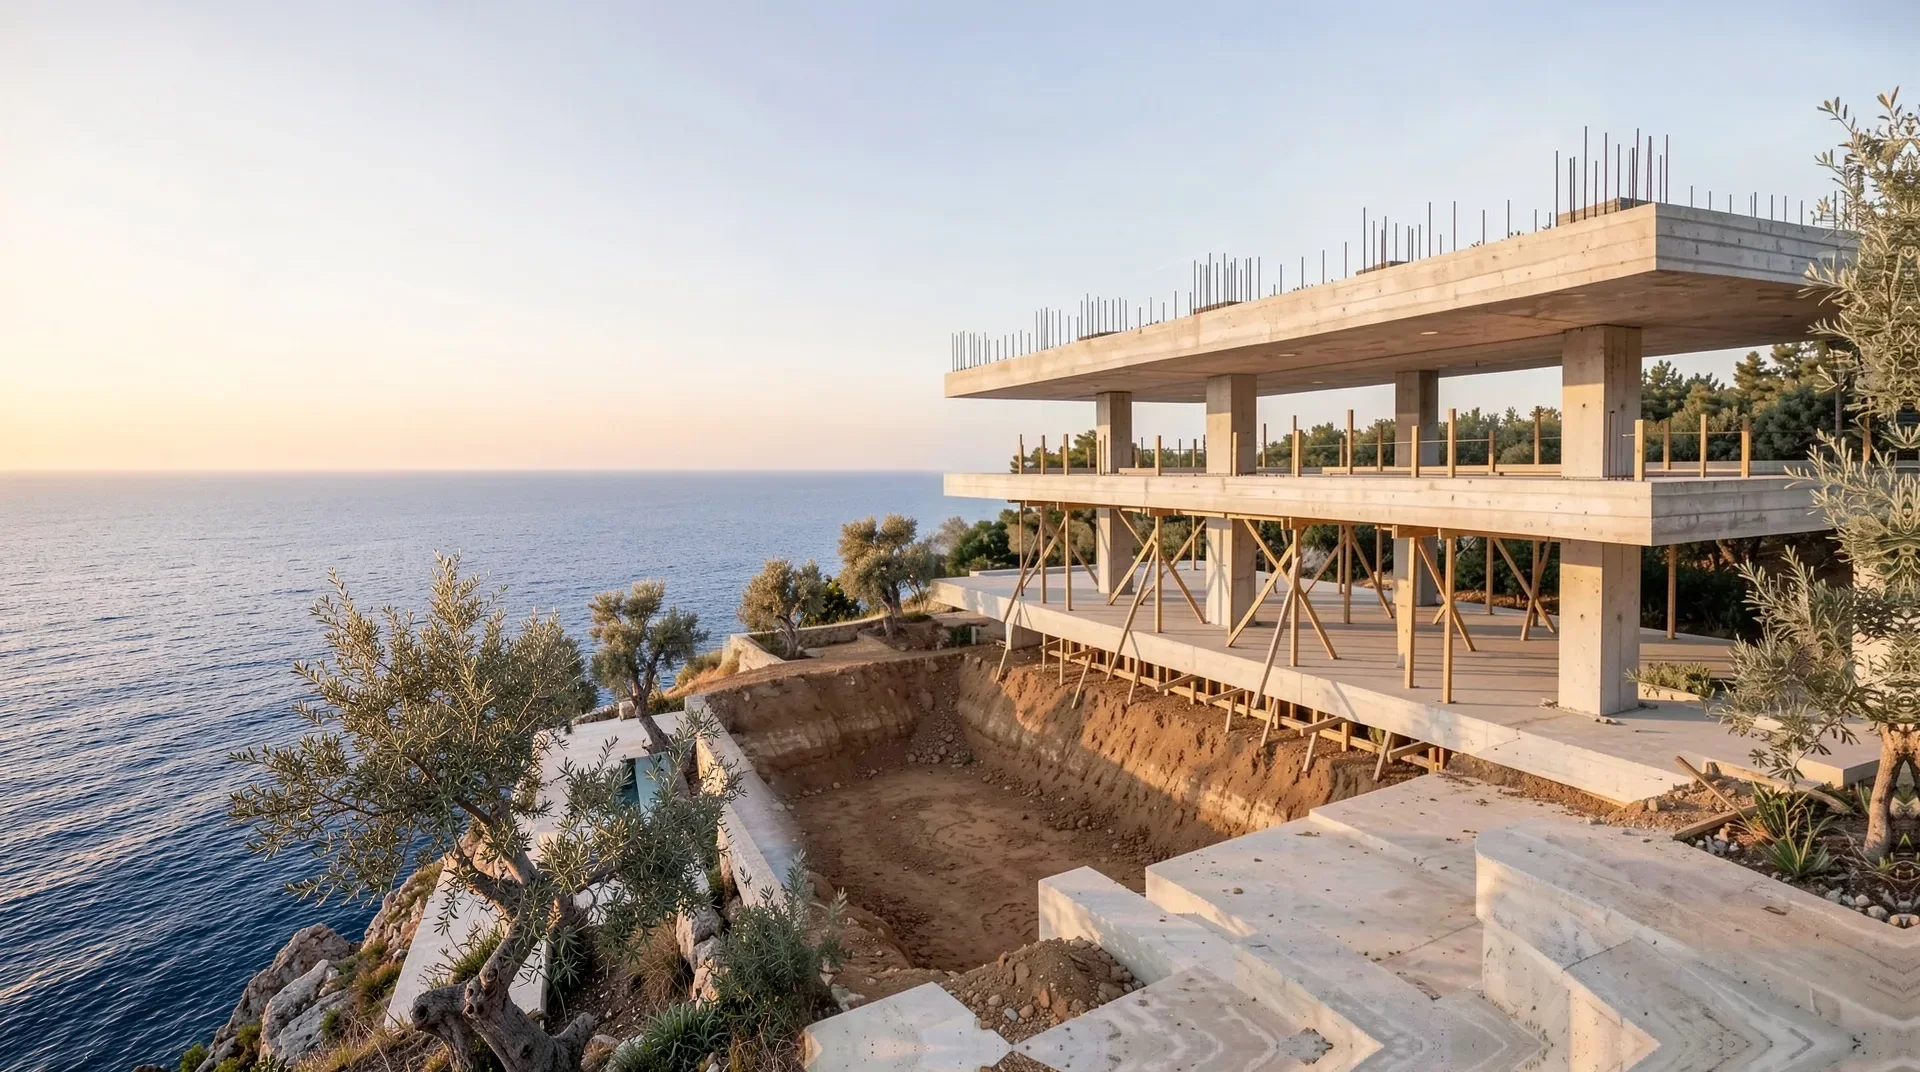
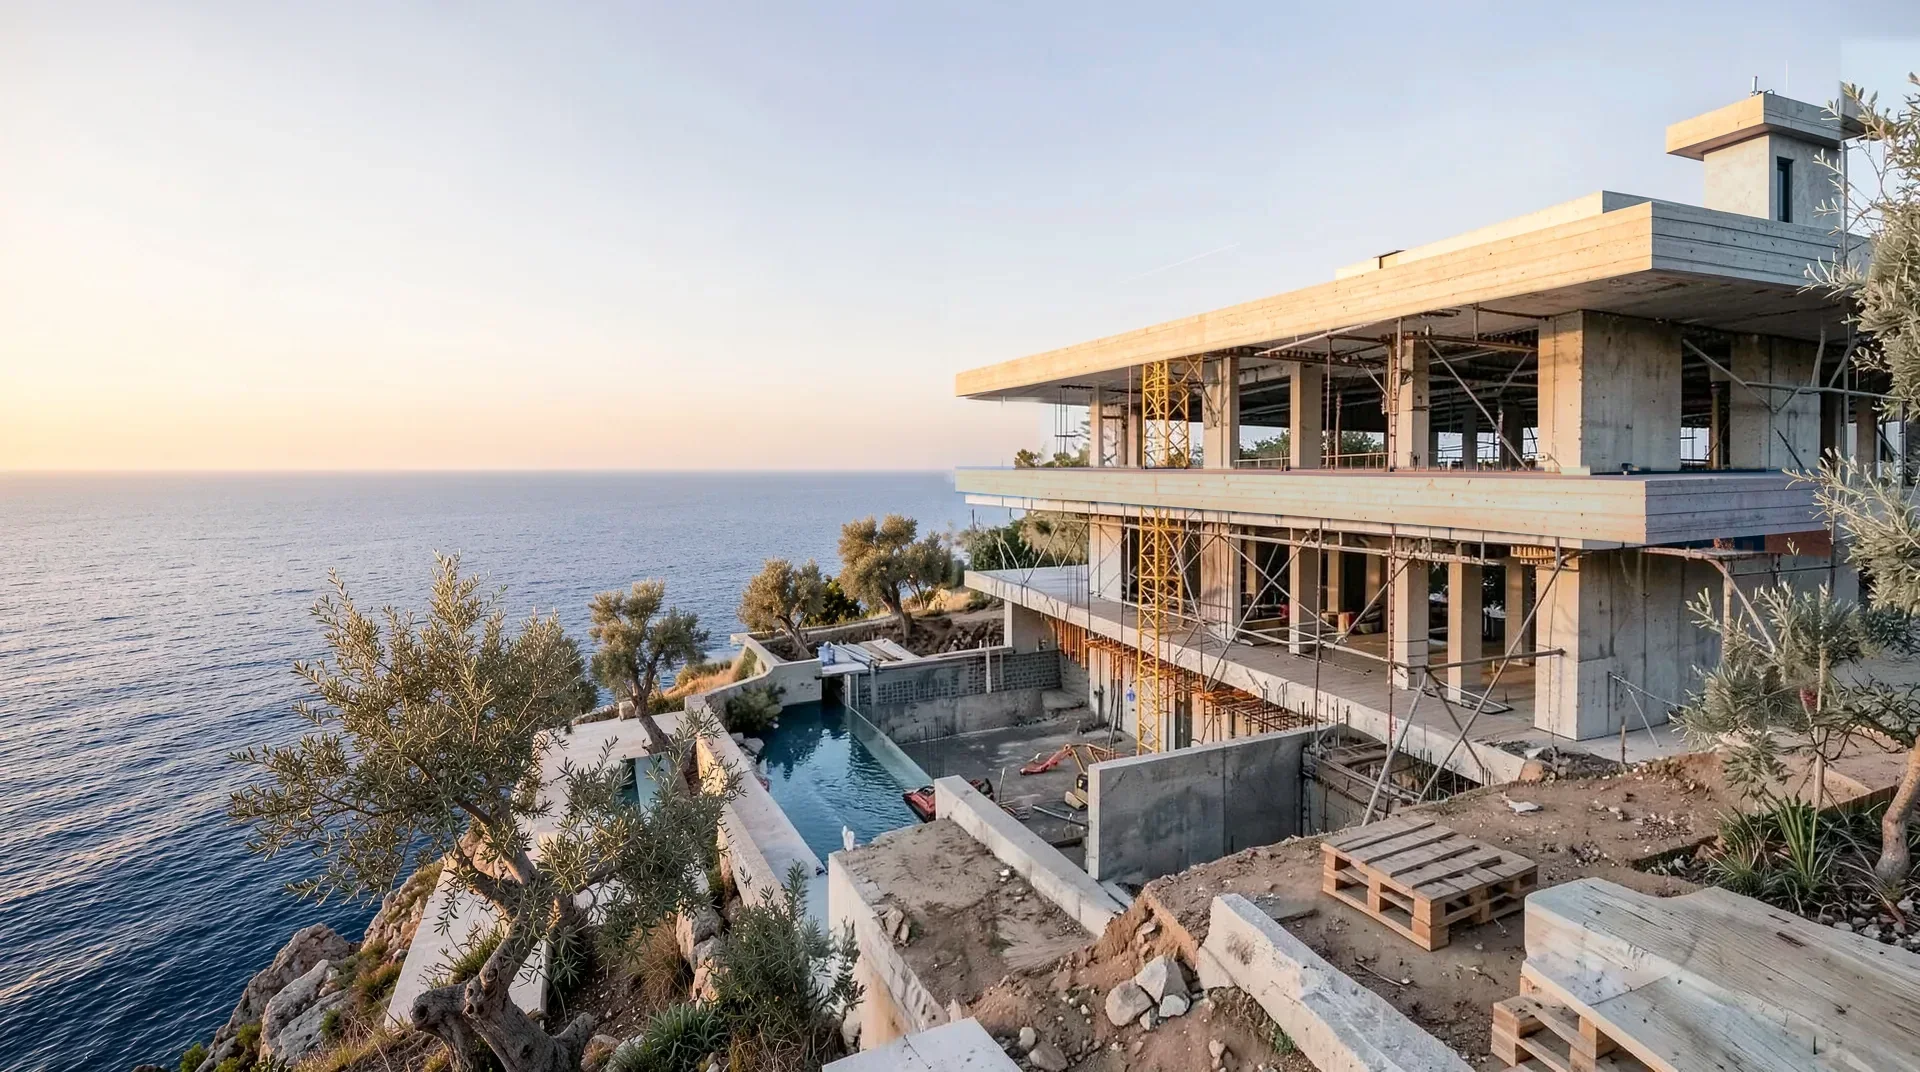
Images: build and frame stages now FLUX.2 [klein] 4B (Apache 2.0); drop the licence caveat

diff --git a/README.md b/README.md
@@ -2,8 +2,6 @@
 
 **Live demo:** https://estate.formgong.com · Download: the [latest release](https://github.com/formgong/lattice-estate-template/releases/latest) zip.
 
-> **License:** code under MIT. `img/shell.webp` and `img/frame.webp` were generated with FLUX.2 [klein] 9B, whose weights are under the FLUX Non-Commercial License; check the FLUX terms (https://bfl.ai/legal/terms-of-service) before commercial use, or replace them. The other three images (FLUX.2 [klein] 4B, Apache 2.0, and a drawing traced from one of them) carry no such restriction.
-
 Шаблон сайту будівельника люкс-будинків з формою Formgong
 
 A variation of [Lattice](https://github.com/formgong/lattice-template). It keeps the core: every border sits on a grid line, the frames draw from a corner, and the boxes slide in. On top of that, the page tells one build backwards. Scrolling rewinds a finished cliffside villa to the shell under construction, then to the bare concrete frame, then to the first drawing. The page ends on the team around a table with a consultation form.
@@ -25,7 +23,11 @@ The form sends `name`, `email`, `phone` (optional), `budget` and `message`. It s
 - Captions and timeline labels are in the `STAGES` array in the script.
 - With `prefers-reduced-motion: reduce`, the stages switch without wipes.
 
-**Images.** All five were made for this template on Cloudflare Workers AI, within the free daily allowance. The finished villa and the team are text-to-image with FLUX.2 [klein] 4B. The build and frame stages are FLUX.2 [klein] 9B edits of the villa. Each one was aligned with a straight-line-safe perspective warp and then locked to the villa photo: outside the house the stages are the photo pixel for pixel, so sky, sea and cliff never move, and the roof and slabs land within 1.5 px. The drawing is traced from the villa photo itself, so it matches by construction. Check the model terms at https://bfl.ai/legal/terms-of-service before you sell the images as part of a template.
+**Images.** All five were made for this template with FLUX.2 [klein] 4B (Apache 2.0) on Cloudflare Workers AI, within the free daily allowance.
+- The finished villa and the team are text-to-image.
+- The build stage is an edit of the villa, guided by a line drawing traced from it. The frame stage is an edit of an earlier build stage.
+- Both stages are locked to the villa photo. Outside the house they are the photo pixel for pixel, so sky, sea and cliff never move. The roof and the middle slab are the photo's own slabs, re-toned to raw concrete, so the edges line up across the wipe.
+- The drawing is traced from the villa photo.
 
 ## Українська
 
@@ -33,4 +35,4 @@ The form sends `name`, `email`, `phone` (optional), `budget` and `message`. It s
 
 **Форма:** замініть `fk_your_access_key` на ключ форми з кабінету Formgong. Форма надсилає ім'я, пошту, телефон, бюджет і повідомлення.
 
-**Картинки:** усі зроблено в Cloudflare Workers AI, у межах безкоштовної денної норми. Етапи стройки — це редагування фото вілли. Поза будинком вони піксель у піксель збігаються з фото, тож небо, море й скеля не рухаються, а дах і плити зсунуті не більше ніж на 1,5 px. Креслення обведене прямо з фото. Якщо ставите свій будинок, знімайте всі етапи з однієї точки.
+**Картинки:** усі п'ять зроблено моделлю FLUX.2 [klein] 4B (ліцензія Apache 2.0) у Cloudflare Workers AI, у межах безкоштовної денної норми. Поза будинком етапи стройки піксель у піксель збігаються з фото. Дах і середня плита взяті з самого фото й перефарбовані під сирий бетон, тож краї збігаються через «шторку». Креслення обведене з фото.
